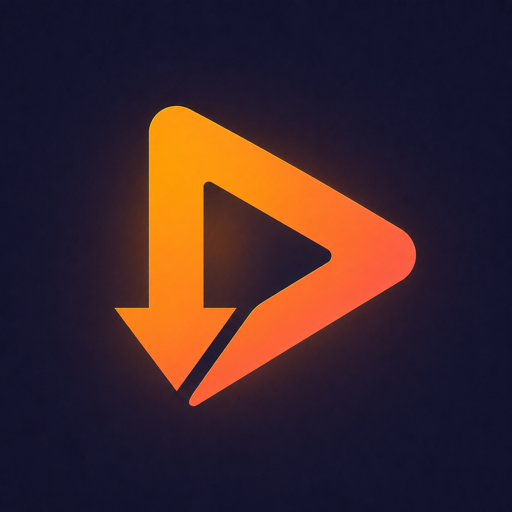
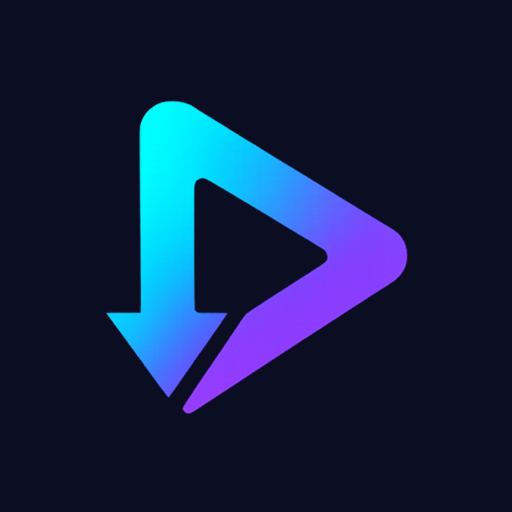
Portage rebrand: electric cyan on midnight navy, new mark
Colors, CAF theme hue and the icon follow the app's new identity
(cyan → azure → violet gradient, midnight-navy surfaces); synced from
the app repo's receiver/.

diff --git a/index.html b/index.html
@@ -5,32 +5,33 @@
 <title>Portage</title>
 <link rel="icon" type="image/png" href="icon.png">
 <style>
-  /* Brand (BrandPalette.swift / design/brand-spec.md): warm amber on deep
-     indigo, the app's mark as the only logo. Playback itself is the STOCK CAF
-     player tinted amber — only idle, loading and failure wear our screens.
+  /* Brand (BrandPalette.swift / design/brand-spec.md): electric cyan on
+     midnight navy, the app's mark as the only logo. Playback itself is the
+     STOCK CAF player tinted cyan — only idle, loading and failure wear our
+     screens.
 
      Written conservatively for Cast hardware: no `gap` (Chromium 84+) and no
      `inset` (87+), since a first-generation Chromecast is far behind a phone.
      Sizes are in vh/vw so one layout serves 720p, 1080p and 4K panels, and
      every screen keeps a title-safe margin because TVs overscan. */
   :root {
-    --accent: rgb(245, 158, 66);      /* warm amber — the app's primary */
-    --coral: rgb(232, 94, 82);        /* glow gradient partner */
-    --violet: rgb(158, 120, 240);     /* ambient light only */
-    --deep: rgb(22, 23, 43);          /* deep indigo surface */
-    --ink: #ECEAF3;
-    --muted: rgba(236, 234, 243, 0.58);
+    --accent: rgb(25, 216, 230);      /* electric cyan — the app's primary */
+    --blue: rgb(38, 140, 255);        /* glow gradient bridge */
+    --violet: rgb(123, 69, 246);     /* ambient light only */
+    --deep: rgb(11, 13, 34);          /* midnight navy surface */
+    --ink: #F4F7FF;
+    --muted: rgba(244, 247, 255, 0.58);
   }
   html, body {
     margin: 0; width: 100%; height: 100%; overflow: hidden;
-    background: rgb(22, 23, 43); background: var(--deep);
+    background: rgb(11, 13, 34); background: var(--deep);
     font-family: -apple-system, 'SF Pro Text', Roboto, 'Segoe UI', sans-serif;
     -webkit-font-smoothing: antialiased;
-    color: #ECEAF3; color: var(--ink);
+    color: #F4F7FF; color: var(--ink);
     cursor: none;
   }
   cast-media-player {
-    --theme-hue: 28;
+    --theme-hue: 187;
     --progress-color: var(--accent);
     --splash-image: none;
     /* Brands the stock surfaces we don't draw ourselves. */
@@ -41,7 +42,7 @@
     width: 100%; height: 100%; background: #000; display: none;
   }
 
-  /* "Projector in a dark room": warm amber light spilling onto deep indigo,
+  /* The mark's own light in a dark room: cyan spilling onto midnight navy,
      the same ambience as the app's launch screen and the browser receivers. */
   .screen {
     position: absolute; top: 0; left: 0; right: 0; bottom: 0;
@@ -50,26 +51,26 @@
     padding: 5vh 6vw;                 /* title-safe: TVs crop the edges */
     text-align: center;
     background:
-      radial-gradient(120vw 90vh at 18% -12%, rgba(245,158,66,0.16), transparent 55%),
-      radial-gradient(90vw 70vh at 88% 108%, rgba(158,120,240,0.12), transparent 60%),
-      rgb(22, 23, 43);
+      radial-gradient(120vw 90vh at 18% -12%, rgba(25,216,230,0.16), transparent 55%),
+      radial-gradient(90vw 70vh at 88% 108%, rgba(123,69,246,0.12), transparent 60%),
+      rgb(11, 13, 34);
   }
   #idle { display: flex; }
 
-  /* The app mark. The PNG is a square with the indigo baked in, so the corner
+  /* The app mark. The PNG is a square with the navy baked in, so the corner
      radius is ours (same treatment as the browser receivers) — it reads as the
-     app icon rather than a pasted tile. The amber shadow lifts it off the
+     app icon rather than a pasted tile. The cyan shadow lifts it off the
      background the way the icon sits on a home screen. */
   .mark {
     width: 15vh; height: 15vh; display: block;
     border-radius: 22%;
-    box-shadow: 0 2.4vh 7vh rgba(245,158,66,0.34);
+    box-shadow: 0 2.4vh 7vh rgba(25,216,230,0.34);
   }
   .wordmark {
     margin: 3.4vh 0 0;
     font-size: 1.9vh; font-weight: 700;
     letter-spacing: 0.42em; text-transform: uppercase;
-    color: rgb(245, 158, 66); color: var(--accent);
+    color: rgb(25, 216, 230); color: var(--accent);
   }
   .headline { margin: 1.8vh 0 0; font-size: 4.4vh; font-weight: 600; letter-spacing: 0.005em; }
   .hint { margin: 1.6vh 0 0; font-size: 2.4vh; font-weight: 500; color: var(--muted); }
@@ -105,9 +106,9 @@
 
   #error .mark-error {
     width: 12vh; height: 12vh; border-radius: 26%;
-    background: linear-gradient(135deg, rgb(232, 94, 82), rgb(200, 62, 62));
+    background: linear-gradient(135deg, rgb(240, 93, 116), rgb(201, 59, 87));
     display: flex; align-items: center; justify-content: center;
-    box-shadow: 0 2.2vh 7vh rgba(232,94,82,0.38);
+    box-shadow: 0 2.2vh 7vh rgba(240,93,116,0.38);
   }
   #error .mark-error svg { width: 52%; height: 52%; }
   #error .headline { font-size: 3.8vh; font-weight: 700; max-width: 78vw; }
@@ -116,19 +117,19 @@
     font-size: 2.4vh; font-weight: 500; color: var(--muted);
     max-width: 62vw; line-height: 1.45;
   }
-  /* A failure tints the ambience coral instead of amber. */
+  /* A failure tints the ambience red instead of cyan. */
   #error {
     background:
-      radial-gradient(120vw 90vh at 18% -12%, rgba(232,94,82,0.18), transparent 55%),
-      radial-gradient(90vw 70vh at 88% 108%, rgba(158,120,240,0.10), transparent 60%),
-      rgb(22, 23, 43);
+      radial-gradient(120vw 90vh at 18% -12%, rgba(240,93,116,0.18), transparent 55%),
+      radial-gradient(90vw 70vh at 88% 108%, rgba(123,69,246,0.10), transparent 60%),
+      rgb(11, 13, 34);
   }
 
   .spinner {
     width: 4.6vh; height: 4.6vh; margin: 3.4vh 0 0;
     border-radius: 50%;
-    border: 0.55vh solid rgba(236,234,243,0.16);
-    border-top-color: rgb(245, 158, 66);
+    border: 0.55vh solid rgba(244,247,255,0.16);
+    border-top-color: rgb(25, 216, 230);
     border-top-color: var(--accent);
     -webkit-animation: spin 0.9s linear infinite;
     animation: spin 0.9s linear infinite;

diff --git a/receiver.js b/receiver.js
@@ -101,7 +101,7 @@ document.addEventListener('DOMContentLoaded', () => {
   Screens.show('idle');
   if (PREVIEW === 'loading') {
     Screens.loading('Bluey — S03E01 — Perfect',
-                    'https://placehold.co/400x400/1a1b2e/f59e42?text=B');
+                    'https://placehold.co/400x400/0b0d22/19d8e6?text=B');
   } else if (PREVIEW === 'error') {
     Screens.error("Can't play this video",
                   "This device can't decode the video or audio format.");
